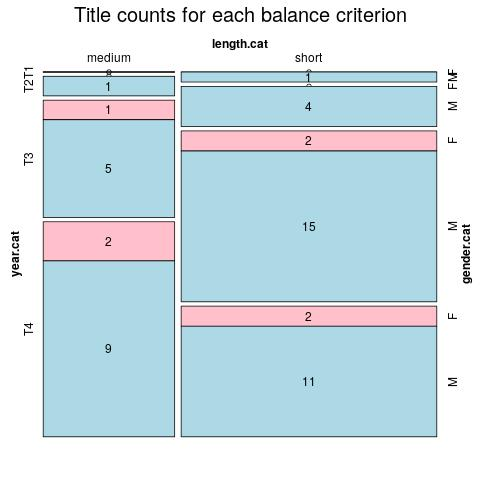
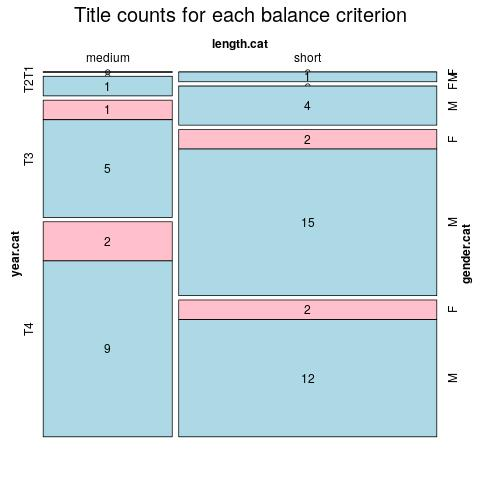
update

diff --git a/ELTeC/srp/index.html b/ELTeC/srp/index.html
@@ -5,7 +5,7 @@
       <title>Contents of ELTeC-srp</title>
    </head>
    <body>
-      <h4>On 2020-06-30 ELTeC-srp contains 53 texts containing 2253171 words</h4>
+      <h4>On 2020-07-01 ELTeC-srp contains 54 texts containing 2278473 words</h4>
       <p class="graphic"><img src="mosaic.png"><input type="button" value="Explainer" onclick="window.open('../explainer.html','popUpWindow',         'height=600,width=500,left=100,top=100,resizable=yes,         scrollbars=yes,toolbar=no,menubar=no,location=no,directories=no, status=yes');"></p>
       <p class="explain">Click on a column heading to sort. Click on a text identifier to
          read the text (may not work in older browsers).
@@ -418,6 +418,18 @@
             <td>Станковић, Борисав (1876-1927)  </td>
             <td>M</td>
             <td>high</td>
+         </tr>
+         <tr>
+            <td><a href="SRP19023.html">SRP19023</a><a href="https://raw.githubusercontent.com/COST-ELTeC/ELTeC-srp/master/level1/SRP19023_DragutinR_Slavko.xml"><img src="../../media/teiLogo.jpg"></a></td>
+            <td>eltec-1</td>
+            <td>97</td>
+            <td>25302</td>
+            <td>(short) </td>
+            <td>1902 (T4) </td>
+            <td>Славко </td>
+            <td>Ранковић, Драгутина Ј. (1882-1956)</td>
+            <td>M</td>
+            <td>low</td>
          </tr>
          <tr>
             <td><a href="SRP19030.html">SRP19030</a><a href="https://raw.githubusercontent.com/COST-ELTeC/ELTeC-srp/master/level1/SRP19030_PrvoVeselje.xml"><img src="../../media/teiLogo.jpg"></a></td>

diff --git a/ELTeC/srp/SRP19023.html b/ELTeC/srp/SRP19023.html
@@ -20,7 +20,7 @@
     },
   };
   c.addBehaviors(behaviors);
-  c.getHTML5("https://raw.githubusercontent.com/COST-ELTeC/ELTeC-ukr/master/level1/UKR1841_Kvitka Serdeshna Oksana.xml",function(data) {
+  c.getHTML5("https://raw.githubusercontent.com/COST-ELTeC/ELTeC-srp/master/level1/SRP19023_DragutinR_Slavko.xml",function(data) {
   document.getElementsByTagName("body")[0].appendChild(data);});
   </script>
      </head>
